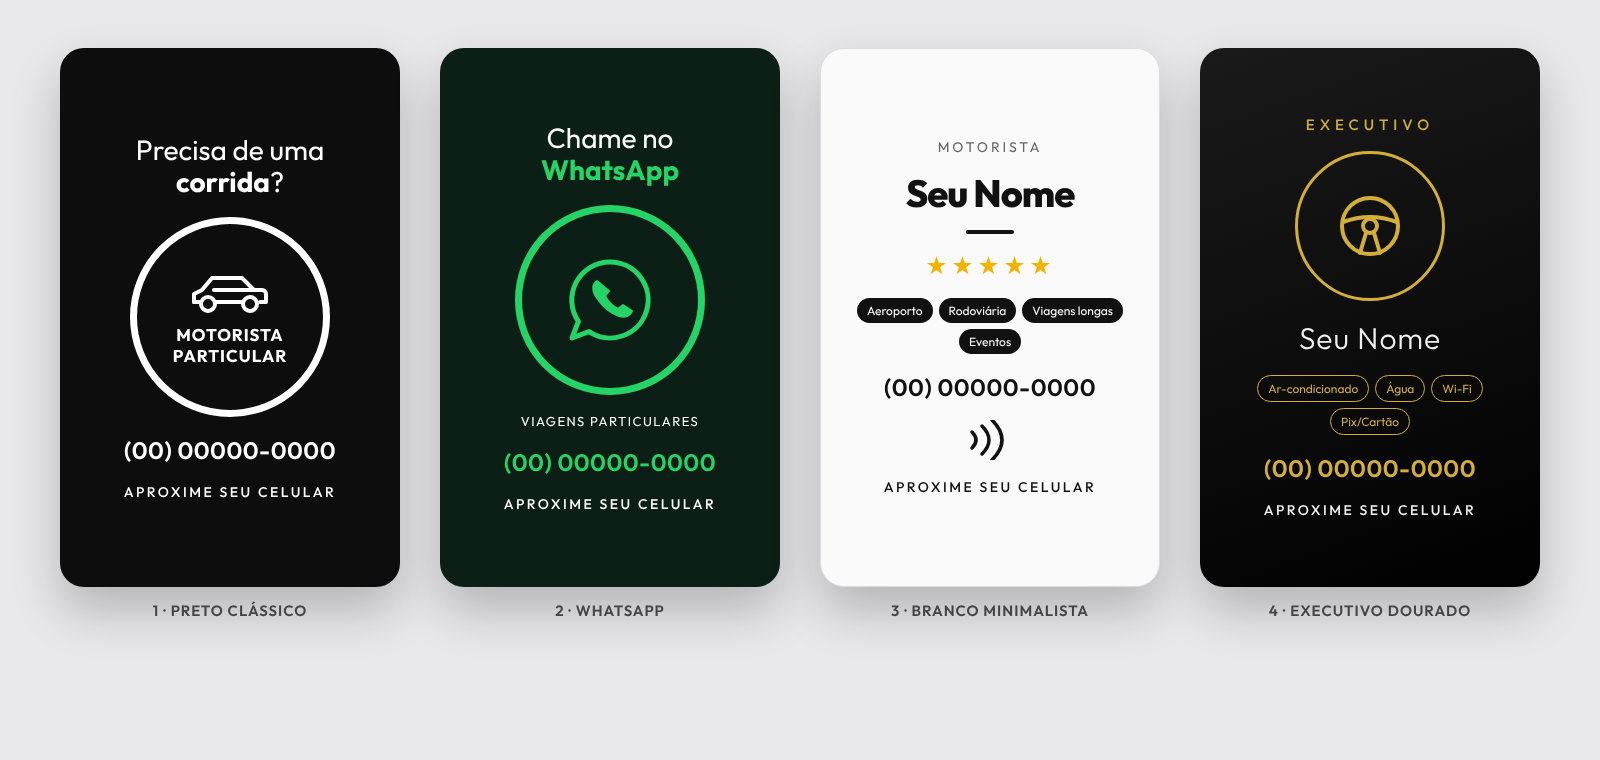
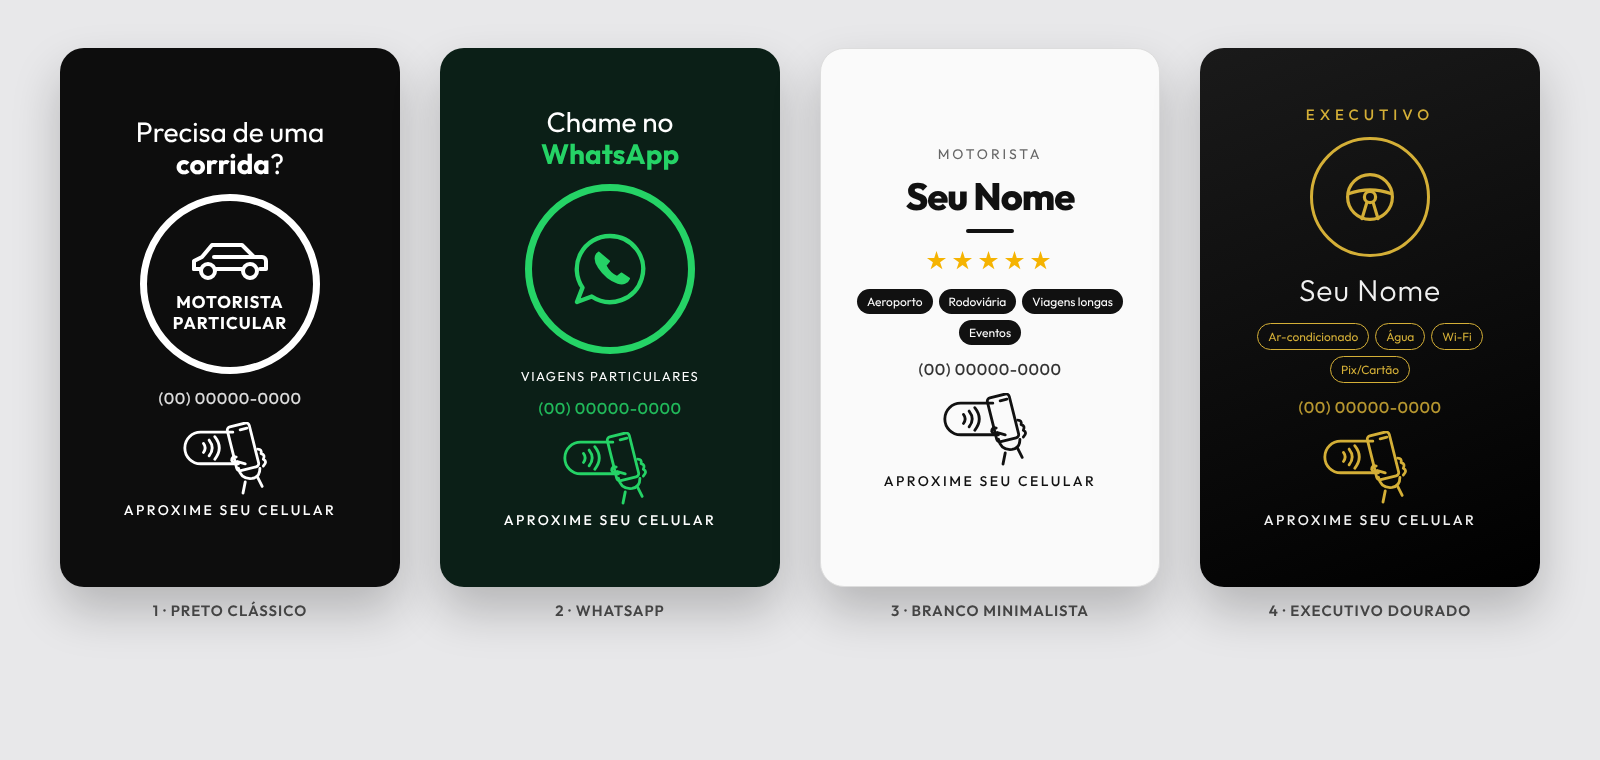
Destaca o NFC nos modelos de cartão de motorista
Claude-Session: https://claude.ai/code/session_01NBH2bsmdxjnXe4w8AvnTGC

diff --git a/cartoes/modelos-motorista.html b/cartoes/modelos-motorista.html
@@ -12,11 +12,12 @@
   figure { display:flex; flex-direction:column; align-items:center; gap:14px; }
   figcaption { font-size:15px; font-weight:600; color:#444; letter-spacing:1px; }
   .card { width:100%; aspect-ratio:54/85.6; border-radius:24px; box-shadow:0 24px 48px rgba(0,0,0,.22);
-          display:flex; flex-direction:column; align-items:center; justify-content:center; text-align:center; gap:18px; padding:28px 20px; }
+          display:flex; flex-direction:column; align-items:center; justify-content:center; text-align:center; gap:14px; padding:24px 20px; }
   .card h2 { font-weight:400; font-size:28px; line-height:1.15; }
   .card h2 b { font-weight:700; }
-  .ring { width:190px; height:190px; border-radius:50%; display:flex; align-items:center; justify-content:center; flex-direction:column; gap:6px; }
-  .phone { font-size:24px; font-weight:600; letter-spacing:.5px; }
+  .ring { width:170px; height:170px; border-radius:50%; display:flex; align-items:center; justify-content:center; flex-direction:column; gap:6px; }
+  .phone { font-size:16px; font-weight:500; letter-spacing:.5px; opacity:.85; }
+  .nfc { width:96px; height:auto; margin-bottom:-8px; }
   .cta { font-size:14px; font-weight:500; letter-spacing:2.5px; }
   .small { font-size:13px; letter-spacing:1.5px; }
   .tags { display:flex; flex-wrap:wrap; justify-content:center; gap:6px; }
@@ -25,14 +26,14 @@
 
   /* 1 – Preto clássico */
   .m1 { background:#0d0d0d; color:#fff; }
-  .m1 .ring { border:7px solid #fff; width:200px; height:200px; }
+  .m1 .ring { border:7px solid #fff; width:180px; height:180px; }
   .m1 .ring strong { font-size:17px; font-weight:700; letter-spacing:1px; }
 
   /* 2 – WhatsApp verde */
   .m2 { background:#0b1f17; color:#fff; }
   .m2 .ring { border:7px solid #25d366; }
   .m2 h2 b { color:#25d366; }
-  .m2 .phone { color:#25d366; }
+  .m2 .phone, .m2 .nfc { color:#25d366; }
 
   /* 3 – Branco minimalista */
   .m3 { background:#fafafa; color:#111; border:1px solid #ddd; }
@@ -45,7 +46,8 @@
   /* 4 – Executivo dourado */
   .m4 { background:linear-gradient(160deg,#1a1a1a,#000); color:#f1f1f1; }
   .m4 .gold { color:#d4af37; }
-  .m4 .ring { border:3px solid #d4af37; width:150px; height:150px; }
+  .m4 .ring { border:3px solid #d4af37; width:120px; height:120px; }
+  .m4 .nfc { color:#d4af37; }
   .m4 .tags span { border:1px solid #d4af37; color:#d4af37; }
   .m4 h2 { font-size:15px; letter-spacing:5px; font-weight:500; }
   .m4 .name { font-size:30px; font-weight:300; letter-spacing:1px; }
@@ -66,6 +68,16 @@
         <strong>MOTORISTA<br>PARTICULAR</strong>
       </div>
       <div class="phone">(00) 00000-0000</div>
+      <svg class="nfc" viewBox="0 0 170 130" fill="none" stroke="currentColor" stroke-width="5" stroke-linecap="round" stroke-linejoin="round" aria-hidden="true">
+        <path d="M90 18 H33 a28 28 0 0 0 0 56 H100"/>
+        <path d="M38 38 q6 8 0 16"/><path d="M48 32 q11 14 0 28"/><path d="M58 26 q16 20 0 40"/>
+        <rect x="88" y="4" width="40" height="80" rx="6" transform="rotate(-14 108 44)"/>
+        <path d="M103 14 l12 -3"/>
+        <path d="M96 62 q-8 -2 -8 6 q2 6 10 2 l14 4"/>
+        <path d="M100 82 q4 20 24 18 q14 -2 14 -18"/>
+        <path d="M134 48 q8 0 6 8 q8 2 4 10 q8 4 0 12"/>
+        <path d="M112 106 l-4 20"/><path d="M134 98 l8 16"/>
+      </svg>
       <p class="cta">APROXIME SEU CELULAR</p>
     </div>
     <figcaption>1 · PRETO CLÁSSICO</figcaption>
@@ -76,13 +88,23 @@
     <div class="card m2">
       <h2>Chame no<br><b>WhatsApp</b></h2>
       <div class="ring">
-        <svg width="92" height="92" viewBox="0 0 92 92" fill="none" stroke="#25d366" stroke-width="5" stroke-linejoin="round">
+        <svg width="80" height="80" viewBox="0 0 92 92" fill="none" stroke="#25d366" stroke-width="5" stroke-linejoin="round">
           <path d="M46 8 a38 38 0 1 1 -21 69.6 L8 84 l6.4 -16.6 A38 38 0 0 1 46 8z"/>
           <path d="M33 27 c-5 3 -5 10 0 17 c6 9 13 15 22 18 c6 2 11 0 13 -5 l-9 -6 l-5 4 c-6 -3 -10 -7 -13 -13 l4 -5 z" fill="#25d366" stroke-width="2"/>
         </svg>
       </div>
       <p class="small">VIAGENS PARTICULARES</p>
       <div class="phone">(00) 00000-0000</div>
+      <svg class="nfc" viewBox="0 0 170 130" fill="none" stroke="currentColor" stroke-width="5" stroke-linecap="round" stroke-linejoin="round" aria-hidden="true">
+        <path d="M90 18 H33 a28 28 0 0 0 0 56 H100"/>
+        <path d="M38 38 q6 8 0 16"/><path d="M48 32 q11 14 0 28"/><path d="M58 26 q16 20 0 40"/>
+        <rect x="88" y="4" width="40" height="80" rx="6" transform="rotate(-14 108 44)"/>
+        <path d="M103 14 l12 -3"/>
+        <path d="M96 62 q-8 -2 -8 6 q2 6 10 2 l14 4"/>
+        <path d="M100 82 q4 20 24 18 q14 -2 14 -18"/>
+        <path d="M134 48 q8 0 6 8 q8 2 4 10 q8 4 0 12"/>
+        <path d="M112 106 l-4 20"/><path d="M134 98 l8 16"/>
+      </svg>
       <p class="cta">APROXIME SEU CELULAR</p>
     </div>
     <figcaption>2 · WHATSAPP</figcaption>
@@ -97,8 +119,15 @@
       <div class="stars">★★★★★</div>
       <div class="tags"><span>Aeroporto</span><span>Rodoviária</span><span>Viagens longas</span><span>Eventos</span></div>
       <div class="phone">(00) 00000-0000</div>
-      <svg width="64" height="40" viewBox="0 0 64 40" fill="none" stroke="#111" stroke-width="3.5" stroke-linecap="round">
-        <path d="M14 12 q8 8 0 16"/><path d="M24 6 q14 14 0 28"/><path d="M34 0 q20 20 0 40"/>
+      <svg class="nfc" viewBox="0 0 170 130" fill="none" stroke="currentColor" stroke-width="5" stroke-linecap="round" stroke-linejoin="round" aria-hidden="true">
+        <path d="M90 18 H33 a28 28 0 0 0 0 56 H100"/>
+        <path d="M38 38 q6 8 0 16"/><path d="M48 32 q11 14 0 28"/><path d="M58 26 q16 20 0 40"/>
+        <rect x="88" y="4" width="40" height="80" rx="6" transform="rotate(-14 108 44)"/>
+        <path d="M103 14 l12 -3"/>
+        <path d="M96 62 q-8 -2 -8 6 q2 6 10 2 l14 4"/>
+        <path d="M100 82 q4 20 24 18 q14 -2 14 -18"/>
+        <path d="M134 48 q8 0 6 8 q8 2 4 10 q8 4 0 12"/>
+        <path d="M112 106 l-4 20"/><path d="M134 98 l8 16"/>
       </svg>
       <p class="cta">APROXIME SEU CELULAR</p>
     </div>
@@ -110,7 +139,7 @@
     <div class="card m4">
       <h2 class="gold">EXECUTIVO</h2>
       <div class="ring">
-        <svg width="70" height="70" viewBox="0 0 70 70" fill="none" stroke="#d4af37" stroke-width="4" stroke-linecap="round">
+        <svg width="56" height="56" viewBox="0 0 70 70" fill="none" stroke="#d4af37" stroke-width="4" stroke-linecap="round">
           <circle cx="35" cy="35" r="28"/><circle cx="35" cy="35" r="7"/>
           <path d="M8 31 q27-10 54 0"/><path d="M31 42 l-6 20"/><path d="M39 42 l6 20"/>
         </svg>
@@ -118,6 +147,16 @@
       <div class="name">Seu Nome</div>
       <div class="tags"><span>Ar-condicionado</span><span>Água</span><span>Wi-Fi</span><span>Pix/Cartão</span></div>
       <div class="phone gold">(00) 00000-0000</div>
+      <svg class="nfc" viewBox="0 0 170 130" fill="none" stroke="currentColor" stroke-width="5" stroke-linecap="round" stroke-linejoin="round" aria-hidden="true">
+        <path d="M90 18 H33 a28 28 0 0 0 0 56 H100"/>
+        <path d="M38 38 q6 8 0 16"/><path d="M48 32 q11 14 0 28"/><path d="M58 26 q16 20 0 40"/>
+        <rect x="88" y="4" width="40" height="80" rx="6" transform="rotate(-14 108 44)"/>
+        <path d="M103 14 l12 -3"/>
+        <path d="M96 62 q-8 -2 -8 6 q2 6 10 2 l14 4"/>
+        <path d="M100 82 q4 20 24 18 q14 -2 14 -18"/>
+        <path d="M134 48 q8 0 6 8 q8 2 4 10 q8 4 0 12"/>
+        <path d="M112 106 l-4 20"/><path d="M134 98 l8 16"/>
+      </svg>
       <p class="cta">APROXIME SEU CELULAR</p>
     </div>
     <figcaption>4 · EXECUTIVO DOURADO</figcaption>
